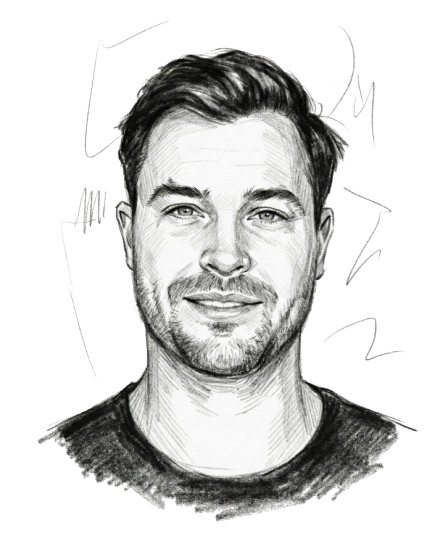
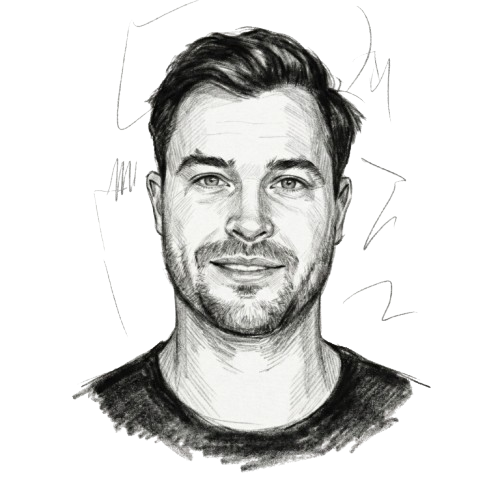
Update portrait image

diff --git a/index.html b/index.html
@@ -1910,7 +1910,7 @@
       <span class="name-right">Beer</span><span class="name-suffix">]</span>
     </div>
     <div id="portrait-frame" style="width:100%;padding:20px 20px 80px;display:flex;align-items:center;justify-content:center;margin-top:auto;">
-      <img id="portrait-img" src="portrait.png" alt="Philipp Beer — sketch portrait" width="448" height="557" fetchpriority="high" style="max-width:100%;height:auto;display:block;">
+      <img id="portrait-img" src="portrait.png" alt="Philipp Beer — sketch portrait" width="500" height="500" fetchpriority="high" style="max-width:100%;height:auto;display:block;">
     </div>
     <div class="center-spacer" style="margin-bottom:auto;padding-bottom:15vh;">
       <p class="center-subtitle" id="hero-subtitle" data-full="Builder _ Investor _ Polymath _ Dad" data-mobile="Builder _ Investor _ Dad"></p>
